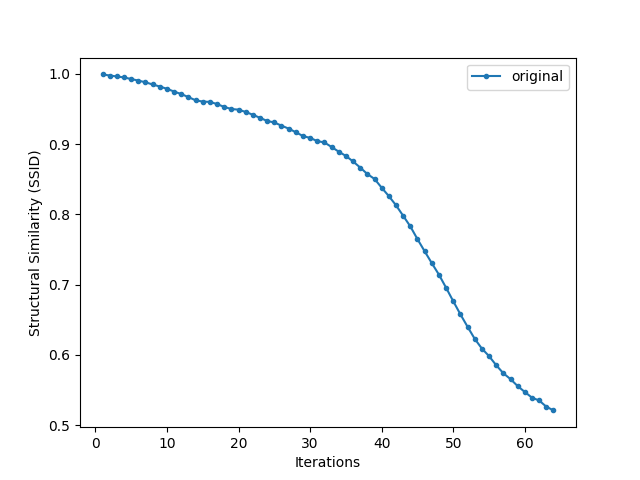
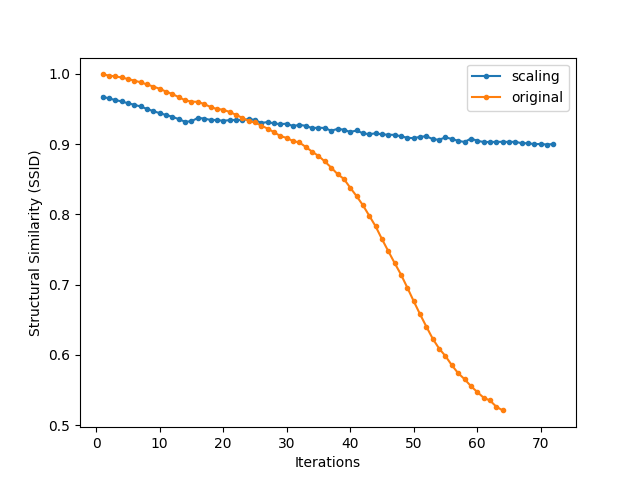
implemented ScalingExtractor

diff --git a/twodirectional/scaling.py b/twodirectional/scaling.py
@@ -1,4 +1,4 @@
-from original import OriginalEmbedder
+from twodirectional.original import *
 from util.util import *
 
 
@@ -37,6 +37,35 @@ class ScalingEmbedder(OriginalEmbedder):
     def get_is_rounded(original, processed):
         recovered = scale_to(processed, (np.min(original), np.max(original)))
         return recovered - original
+
+
+class ScalingExtractor(OriginalExtractor):
+    def _process_data(self, iterations):
+        for index, value in np.ndenumerate(self._header_pixels):
+            self._header_pixels[index] = set_lsb(value, self._buffer.next())
+
+        self._original_min = binary_to_integer(self._buffer.next(8))
+        self._original_max = binary_to_integer(self._buffer.next(8))
+
+        is_modified_size_bits = self._buffer.next(COMPRESSED_DATA_LENGTH_BITS)
+        is_modified_compressed_size = binary_to_integer(is_modified_size_bits)
+        is_modified_compressed = self._buffer.next(is_modified_compressed_size * 8)
+        is_modified_minimized_bytes = self._decompress(bits_to_bytes(is_modified_compressed))
+        is_rounded = bytes_to_bits(is_modified_minimized_bytes)[:self._processed_pixels.size]
+        hidden_data = bits_to_bytes(self._buffer.next(-1))
+        return hidden_data, is_rounded
+
+    def _recover_image(self, iterations, is_rounded):
+        self._processed_pixels -= iterations
+        scaled_max = np.max(self._processed_pixels)
+
+        mapped_values = get_mapped_values(self._original_max - self._original_min, scaled_max)
+        mapped_values = np.in1d(self._processed_pixels, mapped_values)
+
+        recovered_pixels = scale_to(self._processed_pixels, self._original_max - self._original_min)
+        recovered_pixels[mapped_values] -= is_rounded[:np.count_nonzero(mapped_values)]
+        recovered_pixels += self._original_min
+        self._processed_pixels = recovered_pixels
 
 
 if __name__ == '__main__':

diff --git a/stats.py b/stats.py
@@ -7,7 +7,6 @@ import numpy as np
 from skimage.metrics import structural_similarity
 
 from rdh_algorithm import *
-from util.compress import *
 from util.measure import Measure
 from util.util import bits_to_bytes, read_image
 
@@ -18,10 +17,9 @@ args = parser.parse_args()
 ORIGINAL_IMAGE_NAME = args.source
 ORIGINAL_IMAGE_PATH = f'res/{ORIGINAL_IMAGE_NAME}'
 DATA_PATH = 'res/data.txt'
-# RDH_ALGORITHMS = [original_algorithm, scaling_algorithm, unidirectional_algorithm, bp_unidirectional_algorithm]
-RDH_ALGORITHMS = [original_algorithm]
-ARGS = ((no_compress,), )
-KWARGS = ({}, )
+RDH_ALGORITHMS = [scaling_algorithm, original_algorithm]
+ARGS = ((), (), )
+KWARGS = ({}, {}, )
 
 path, name = os.path.split(ORIGINAL_IMAGE_NAME)
 image_name, _ = os.path.splitext(name)
@@ -64,8 +62,8 @@ for (embedder, extractor, label), args, kwargs in zip(RDH_ALGORITHMS, ARGS, KWAR
     for embedded_image, iterations_count, _ in embedder:
         print(f'{iterations_count} iterations:')
 
+        recovered_image, extraction_iterations, extracted_data = extractor.extract(embedded_image)
         try:
-            recovered_image, extraction_iterations, extracted_data = extractor.extract(embedded_image)
             # recovered_image, extraction_iterations, extracted_data = \
             #     Measure(rdh.extract, 'extraction', print_time=True)(embedded_image.copy(), *args, **kwargs)
             is_successful = \

diff --git a/rdh_algorithm.py b/rdh_algorithm.py
@@ -1,7 +1,9 @@
 from collections import namedtuple
 
 from twodirectional import original
+from twodirectional import scaling
 
 RdhAlgorithm = namedtuple('RdhAlgorithm', ('embedder', 'extractor', 'label'))
 
 original_algorithm = RdhAlgorithm(original.OriginalEmbedder, original.OriginalExtractor, 'original')
+scaling_algorithm = RdhAlgorithm(scaling.ScalingEmbedder, scaling.ScalingExtractor, 'scaling')

diff --git a/scaling_extract.py b/scaling_extract.py
@@ -70,7 +70,7 @@ def recover_image():
 
 def _assemble_image():
     global cover_image
-    cover_image = shared.assemble_image(header_pixels, processed_pixels, processed_image.shape)
+    cover_image = util.assemble_image(header_pixels, processed_pixels, processed_image.shape)
 
 
 def write_image():
